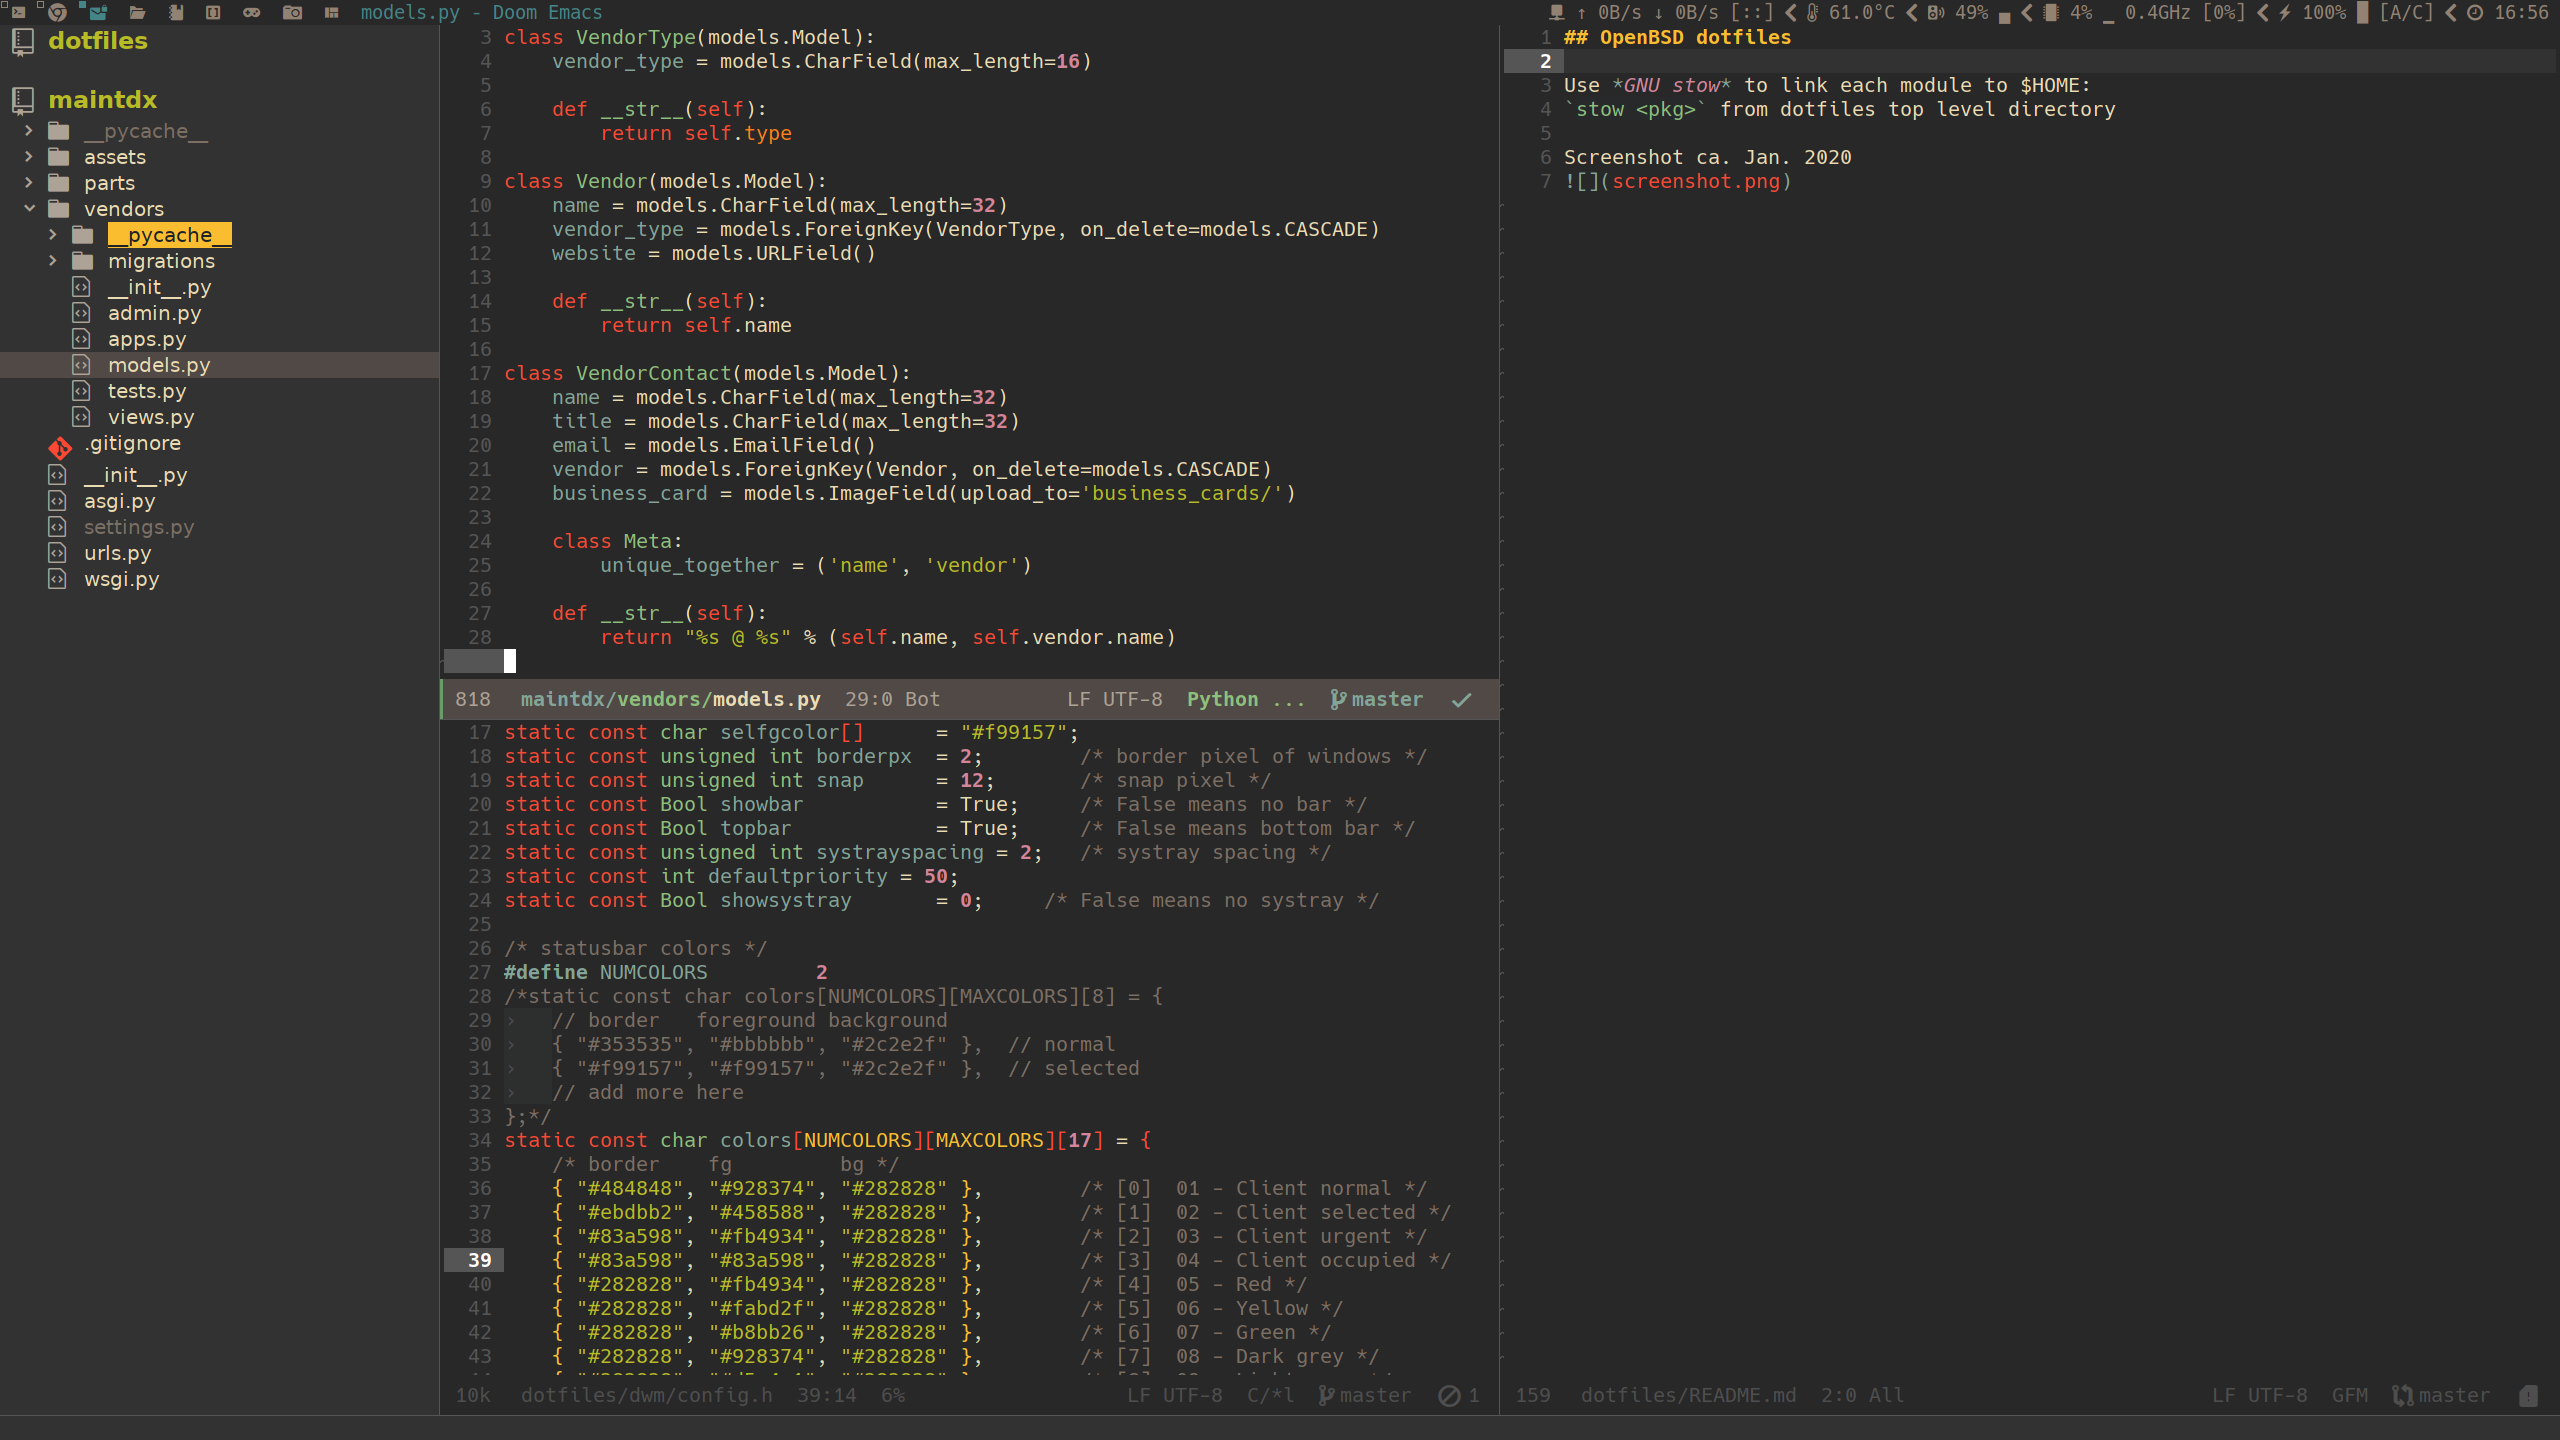
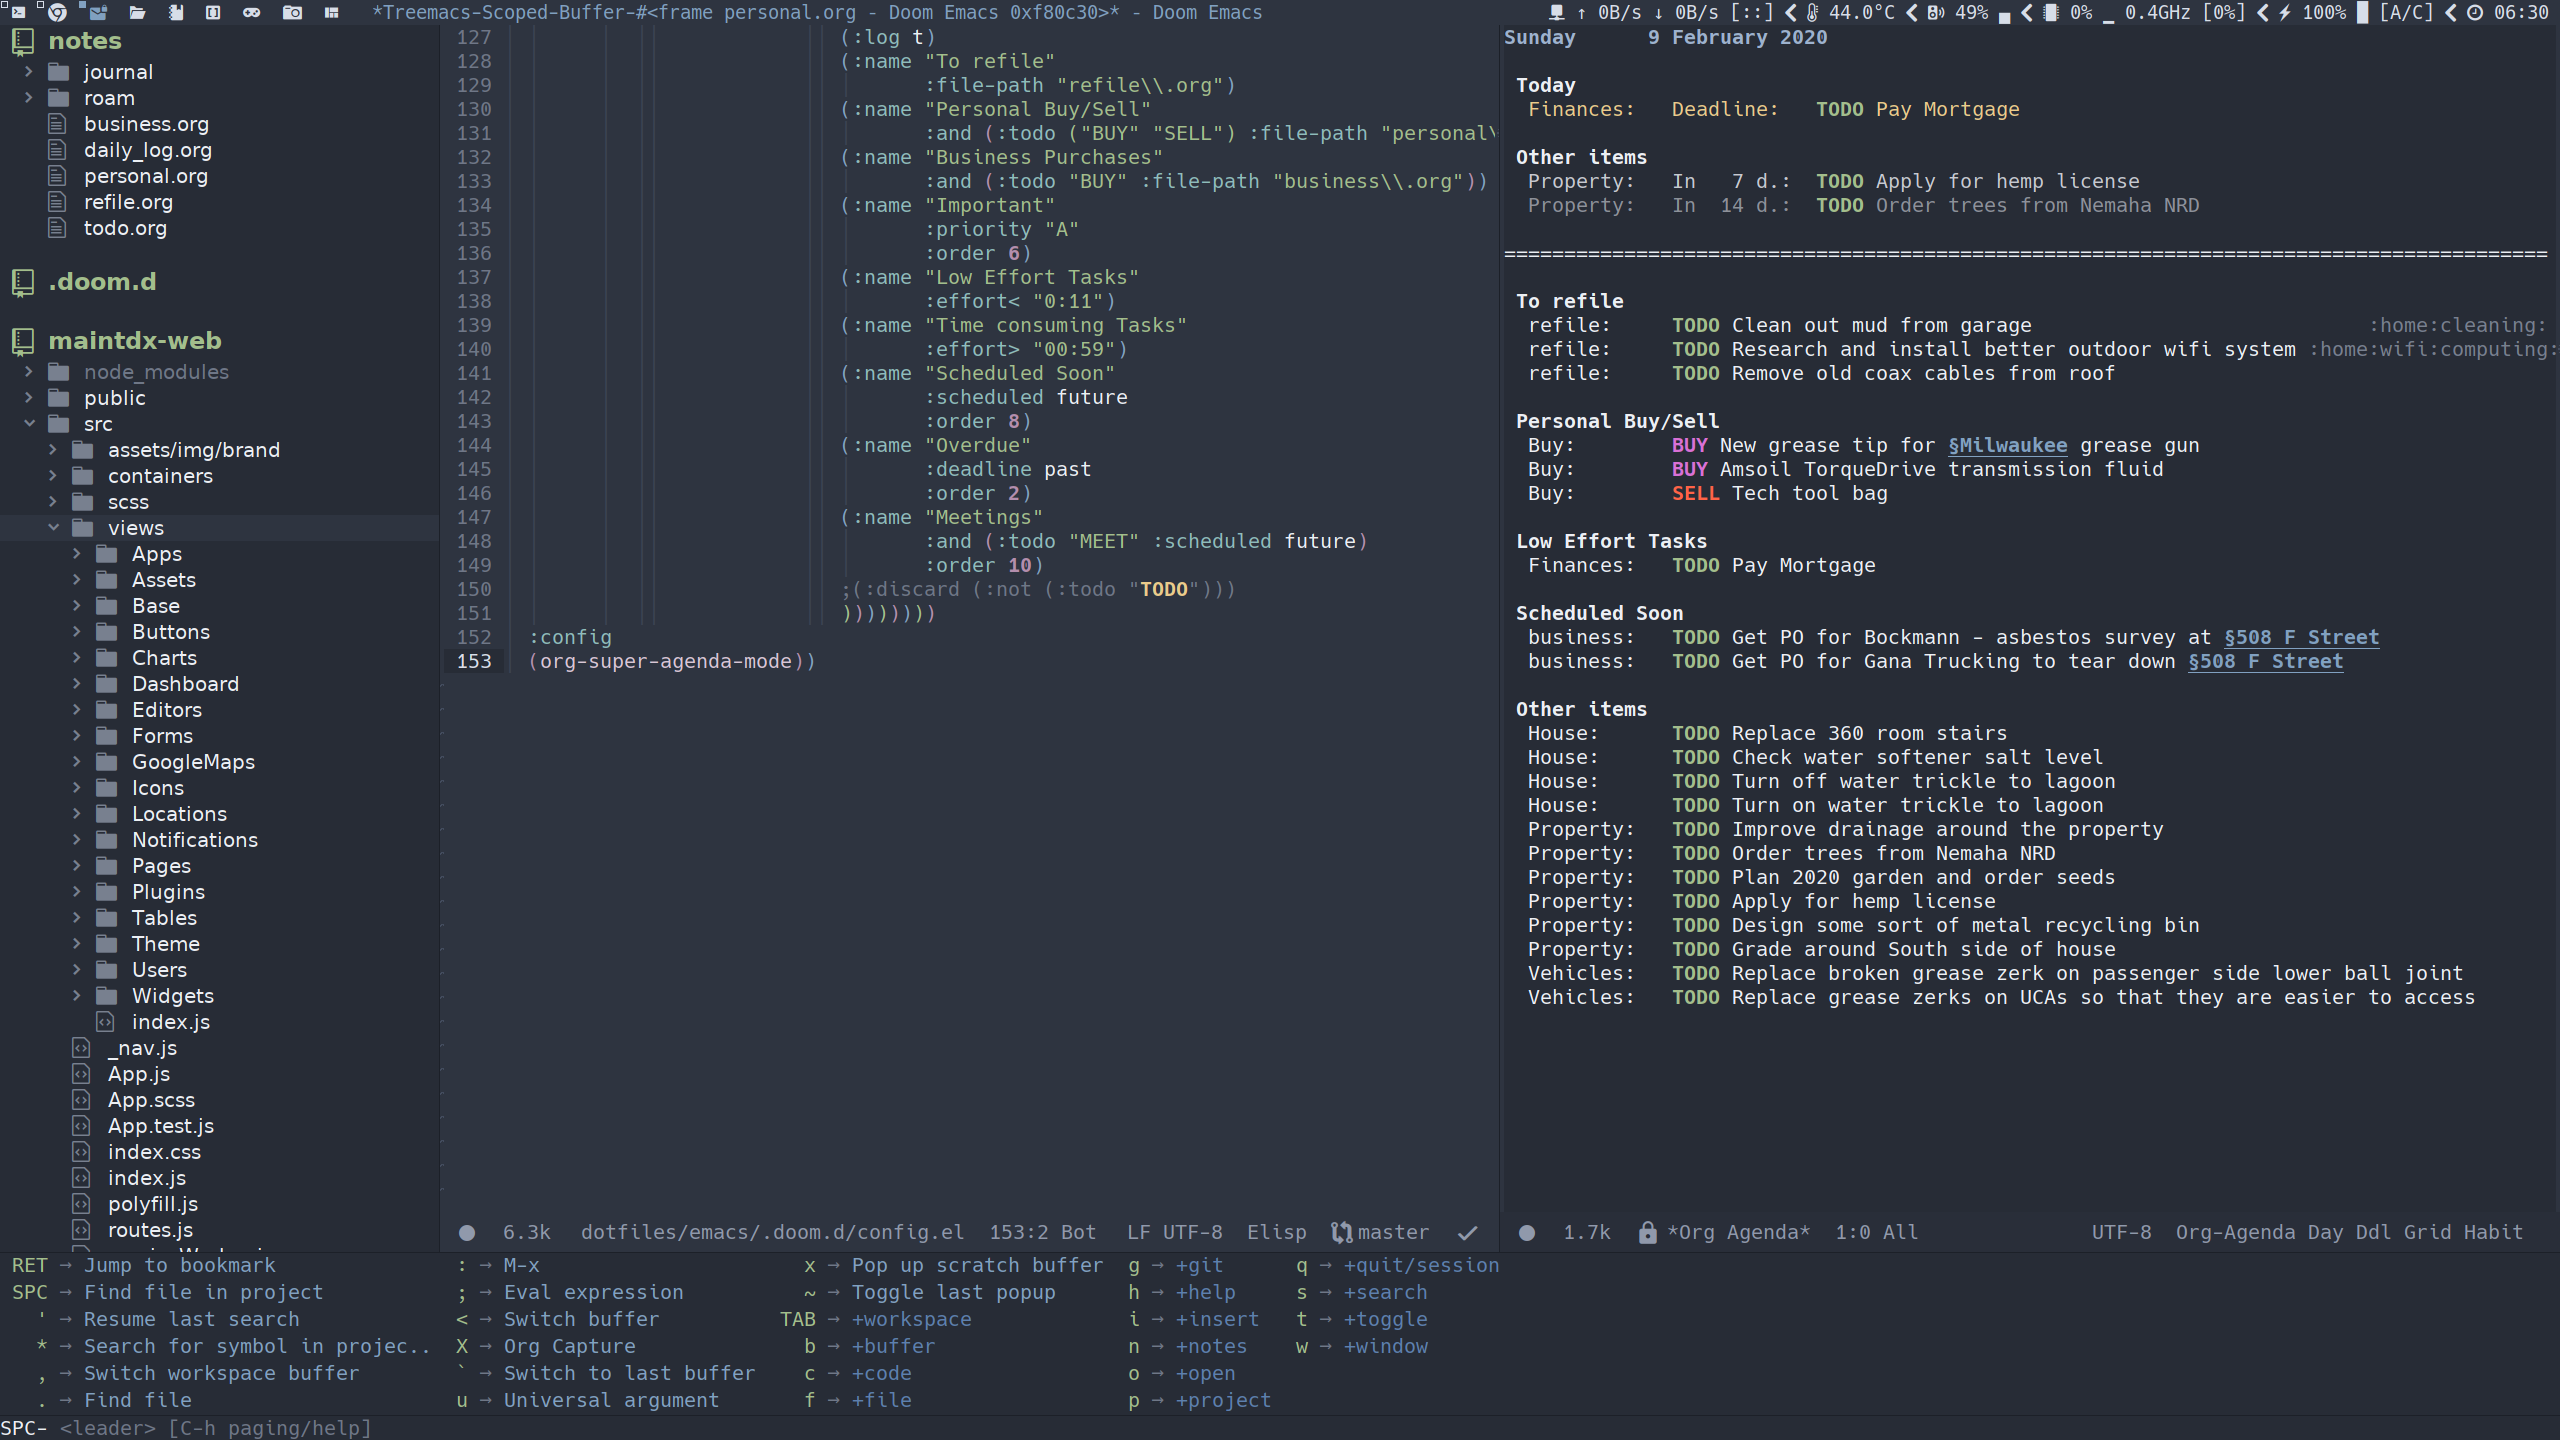
update screenshots to reflect Nord theme

diff --git a/README.md b/README.md
@@ -3,7 +3,7 @@
 Use *GNU stow* to link each module to $HOME:
 `stow <pkg>` from dotfiles top level directory
 
-Screenshot ca. Jan. 2020
+Screenshot ca. Feb. 2020
 ![](screenshot.png)
 
 ...and Doom Emacs
